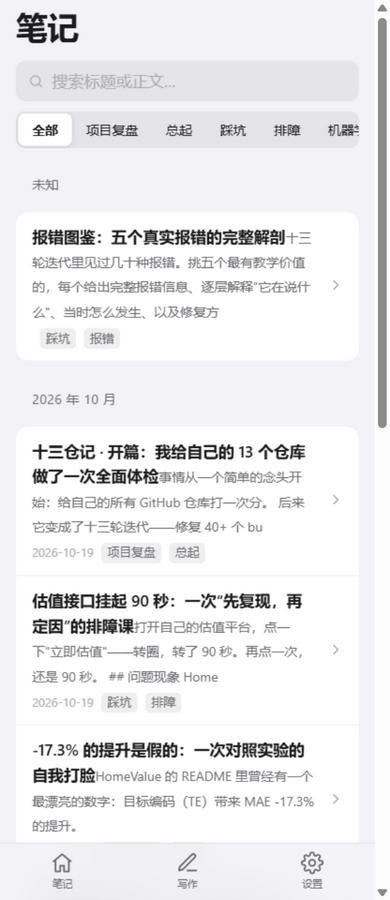
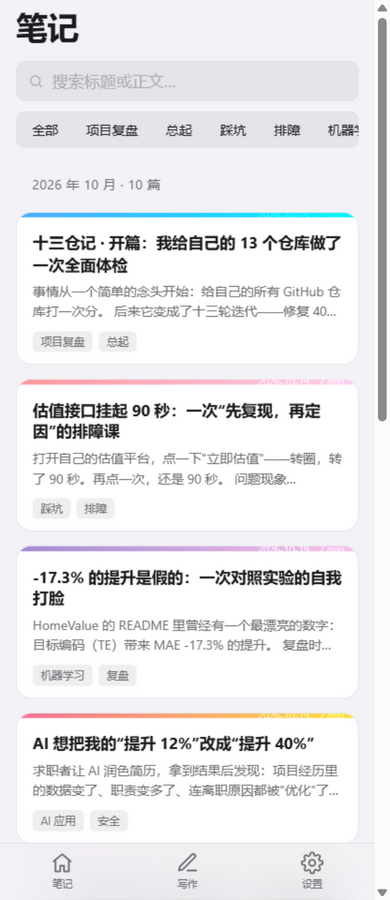
feat(内容): 产品设计复盘三盲区 + 下一个方向项目管理助手

diff --git a/src/content/posts.js b/src/content/posts.js
@@ -384,4 +384,84 @@ sudo apt-get install -y libegl1 libgl1 libxkbcommon0 libdbus-1-3 libfontconfig1 
 
 > 💡 **要点回顾**：报错信息是机器在跟你说话——它告诉你"哪个文件、哪一行、什么类型的操作失败了"。读懂报错的三个步骤：① 先看类型(TypeError / ImportError / 语法错误)；② 再看具体消息里提到的对象或模块名；③ 最后回到代码行号确认上下文。大部分报错在第二步就能定位。`,
   },
+  {
+    id: 'c_design_review',
+    title: '产品设计复盘：我的三个盲区',
+    tags: ['产品设计', '思维'],
+    date: '2026-10-20',
+    content: `我把 16 个项目的开发过程摊开来看,发现了三个反复出现的设计盲区。不是代码 bug,是**想事情的方式**有问题。
+
+## 盲区一：先写代码,后想边界
+
+miniflow 做了点赞、模拟登录、假社区——因为"学 React 需要练这些"。但作为博客,这些全是噪音。whoyouare 用前端哈希做兑换码验证,MVP 阶段合理,但从未在某个时间点停下来问:如果这个产品真的有人买,截图转发怎么办?
+
+**为什么会这样**:因为写代码的确定性远高于想问题的不确定性。写一个功能,结果是可见的;想一个边界问题,结果是不确定的。大脑天然偏好前者。
+
+**后续怎么做**:每个项目动手前,用 10 分钟写三句话:
+
+- 最小可用版本是什么?(只做这个,其他全部不做)
+- 如果有 100 个真实用户,最先崩的是什么?
+- 有哪些事我故意不做?(写下来,后面忍不住加的时候看一眼)
+
+## 盲区二：安全永远是"以后再说"
+
+whoami 的 ADMIN_KEY 明文推过公开仓库。fanqing-plan 的代理裸奔了很久。ai-resume 的 JWT 存 localStorage。
+
+**为什么会这样**:安全问题不产生用户可见的价值,所以注意力全在功能上。等想起来的时候,密钥已经泄露了。
+
+**后续怎么做**:把安全检查变成构建流程的一部分,而不是靠记忆。merchant-copilot 已经这么做了(CI 里的审批门断言)。把这个模式推到所有项目:每次推送自动扫硬编码密钥、自动跑依赖审计。
+
+## 盲区三：把"我能做"和"该不该做"混在一起
+
+yunfan-admin 做了命令面板、多标签页、图表下钻。但作为作品集,面试官只关心"鉴权怎么做、分页怎么做、权限怎么管"。
+
+**为什么会这样**:学了某个技术就想找地方用它,而不是先问"这个场景需不需要它"。
+
+**后续怎么做**:每个功能问自己一句话——**如果没有这个功能,用户还会用我的产品吗?** 如果答案是"会",这个功能就不是核心,放后面。
+
+## 我的优势
+
+说完盲区,也说清楚做得好的——这些在做下一个项目时应该刻意保留:
+
+- **会做完整**：不是 Hello World,是能跑、有部署、有真实用户的完整产品
+- **会回头看**：主动要求"重新审查所有仓库"、"检查 bug 和无响应"
+- **在乎用户体验**：微信防御、AI 拦截、首发模式——都是从真实反馈来的产品优化
+- **舍得删**：承认"这个功能已有"而不重复造轮子`,
+  },
+  {
+    id: 'c_direction_pm',
+    title: '下一个项目：我自己的项目管理助手',
+    tags: ['方向', '工作流'],
+    date: '2026-10-20',
+    content: `我管理着 13+ 个 GitHub 仓库,每周的日常是这样的:推送代码 → 看 CI → 修 bug → 写 README → 截图 → 更新备份 → 检查图片路径。这些事里有很多重复劳动——所以我决定做一个属于自己的项目管理助手。
+
+## 要解决什么
+
+- 13 个仓库的 CI 状态、测试覆盖率、最后更新时间——分散在 GitHub 各处,没有一个地方能一眼看完
+- README 里的截图要手动截、手动传、手动更新引用
+- 每次推代码前都要检查有没有硬编码密钥、依赖有没有漏洞
+- 有几个仓库还在活跃开发,有几个已经停滞——没有一个地方能看到全局
+
+## 为什么这个项目值得做
+
+- **我是唯一的目标用户**——不需要用户调研,我就是那个每天被这些问题烦的人
+- **技术栈全命中**——GitHub API + React 前端 + 数据聚合,把已有的全栈能力串起来
+- **作品集加分**——这个项目本身就是在管理其他项目,面试时它就是最好的导览页
+
+## 核心功能
+
+- 仓库健康面板:CI 状态、最后推送时间、语言分布、commit 频率热力图
+- 依赖审计:全仓库扫描,标记过时/有漏洞的依赖
+- README 同步检查:标记 README 最后更新时间远早于代码最后更新时间的仓库
+- 跨仓库搜索:按标签/语言/状态过滤
+
+## 技术选型
+
+前端 React + GitHub API(v4 GraphQL 减少请求次数)。数据实时拉取不做后端——密钥存在浏览器本地,只有我能看到。
+
+## 这不是一个练习
+
+前面的项目有的是练习、有的是产品。这个项目**两个都是**——我管理仓库的过程就是它的测试过程,它的每一次改进都直接减少我的日常摩擦。`,
+  },
+
 ];
